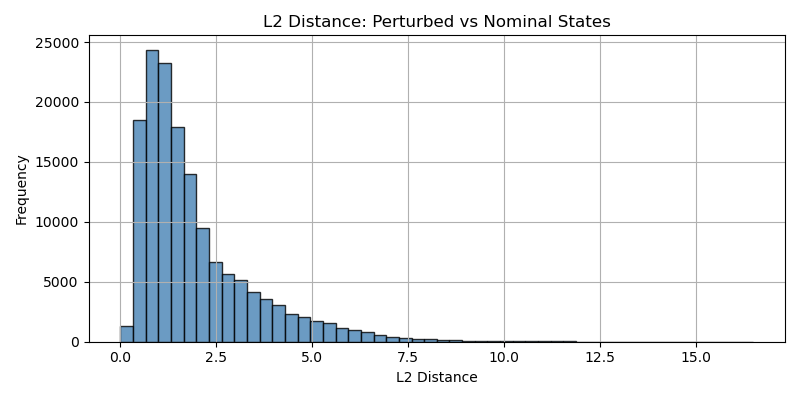
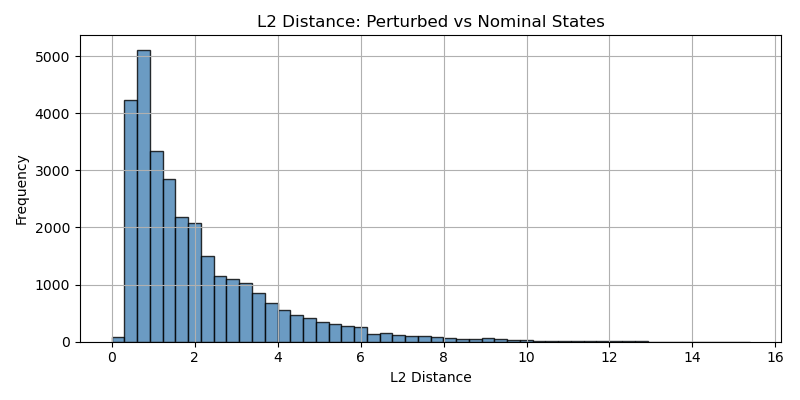
fix velocity drop to 0 after perturbation

diff --git a/iterative_supervised_learning/examples/data_collection_force_perturbation.py b/iterative_supervised_learning/examples/data_collection_force_perturbation.py
@@ -27,51 +27,6 @@ t0 = 0.0
 v_des = [0.15, 0.0, 0.0]
 n_state = 44
 
-def save_ood_val_set_dummy(self, experiment_dir, states, vc_goals, cc_goals, actions, data):
-    if "nominal" not in data.filename.lower():
-        self.ood_database.append(
-            states=states[:1000],
-            vc_goals=vc_goals[:1000],
-            cc_goals=cc_goals[:1000],
-            actions=actions[:1000]
-        )
-
-def save_ood_val_set_l2_distance(self, experiment_dir, states, vc_goals, cc_goals, actions, data, distance_threshold=4.0):
-    if "nominal" in data.filename.lower():
-        return
-
-    # Load nominal trajectory once
-    nominal_file = [f for f in os.listdir(experiment_dir) if "nominal" in f.lower()][0]
-    nominal_path = os.path.join(experiment_dir, nominal_file)
-    nominal_data = np.load(nominal_path)
-
-    # Build nominal state dict by time
-    nominal_states_by_time = {
-        round(t, 4): s for t, s in zip(nominal_data["time"], nominal_data["state"])
-    }
-
-    # Filter and save OOD samples by distance
-    for idx in range(len(states)):
-        t = round(data["time"][idx], 4)
-        s_pert = states[idx]
-
-        if t in nominal_states_by_time:
-            s_nom = nominal_states_by_time[t]
-
-            # Optional: ignore phase percentage (index 0)
-            s_pert_vec = s_pert[1:]
-            s_nom_vec = s_nom[1:]
-            dist = np.linalg.norm(s_pert_vec - s_nom_vec)
-
-            if dist > distance_threshold:
-                self.ood_database.append(
-                    states=[s_pert],
-                    vc_goals=[vc_goals[idx]],
-                    cc_goals=[cc_goals[idx]],
-                    actions=[actions[idx]]
-                )
-
-
 def contact_vec_to_frame_names(contact_vec: np.ndarray) -> List[str]:
     frame_names = ["FL_foot", "FR_foot", "RL_foot", "RR_foot"]
     return [frame_names[i] for i in range(len(frame_names)) if contact_vec[i] == 1]
@@ -124,6 +79,53 @@ class DataCollection():
             with open(config_path, "wb") as f:
                 pickle.dump(self.cfg, f)
         print(f"Dataset saved at iteration {iteration+1}")
+    
+    def save_ood_val_set_dummy(self, experiment_dir, states, vc_goals, cc_goals, actions,file_name):
+        if "nominal" not in file_name.lower():
+            self.ood_database.append(
+                states=states[:1000],
+                vc_goals=vc_goals[:1000],
+                cc_goals=cc_goals[:1000],
+                actions=actions[:1000]
+            )
+
+    def save_ood_val_set_l2_distance(self, experiment_dir, states, vc_goals, cc_goals, actions, times, file_name, distance_threshold=4.0):
+        if "nominal" in file_name.lower():
+            return
+
+        # Load nominal trajectory
+        nominal_file = [f for f in os.listdir(experiment_dir) if "nominal" in f.lower()][0]
+        nominal_path = os.path.join(experiment_dir, nominal_file)
+        nominal_data = np.load(nominal_path)
+
+        # Build time-indexed nominal dictionary
+        nominal_states_by_time = {
+            round(t, 4): s for t, s in zip(nominal_data["time"], nominal_data["state"])
+        }
+
+        num_added = 0
+        for idx in range(len(states)):
+            t = round(times[idx], 4)
+            s_pert = states[idx]
+
+            if t in nominal_states_by_time:
+                s_nom = nominal_states_by_time[t]
+
+                s_pert_vec = s_pert[1:]
+                s_nom_vec = s_nom[1:]
+                dist = np.linalg.norm(s_pert_vec - s_nom_vec)
+
+                if dist > distance_threshold:
+                    self.ood_database.append(
+                        states=[s_pert],
+                        vc_goals=[vc_goals[idx]],
+                        cc_goals=[cc_goals[idx]],
+                        actions=[actions[idx]],
+                    )
+                    num_added += 1
+
+        print(f"Added {num_added} OOD samples from {file_name}")
+
 
     def run(self):        
         experiment_dir = os.path.join(self.data_save_path, "experiment")
@@ -140,15 +142,6 @@ class DataCollection():
             nominal_flag=True
         )
         
-        replanning_points = []
-        gait_period = 0.5
-        num_replanning = int(gait_period * 1000 / replan_freq)
-        start_timestep = t0 * 1000
-        for i in range(num_replanning):
-            next_replanning_point = int(i * replan_freq + start_timestep)
-            replanning_points.append(next_replanning_point)
-        print("Replanning points:", replanning_points)
-
         print("loading nominal traj data from path = ")
         print(record_path_nominal)
         data = np.load(record_path_nominal)
@@ -160,10 +153,32 @@ class DataCollection():
         cc_goals = None
         actions = data["ctrl"]
         contact_vec = data["contact_vec"]
+        
+        # # sample replanning points
+        # replanning_points = []
+        # gait_period = 0.5
+        # num_replanning = int(gait_period * 1000 / replan_freq)
+        # start_timestep = t0 * 1000
+        # for i in range(num_replanning):
+        #     next_replanning_point = int(i * replan_freq + start_timestep)
+        #     replanning_points.append(next_replanning_point)
+        # print("Replanning points:", replanning_points)
+        
+        # sample 20 replanning points evenly across the reference trajectory
+        replanning_points = []
+        gait_period = 0.5
+        num_replanning = 10
+        start_timestep = t0 * 1000
+        # traj_length = len(state)
+        traj_length = 3500
+        replanning_points = np.linspace(0, traj_length - 1, num_replanning, dtype=int).tolist()
+        print(f"Evenly spaced replanning points (total {num_replanning}):", replanning_points)
 
         for i_replanning in replanning_points:
             print(f"Replanning at step {i_replanning}")
             q0 = nominal_q[i_replanning]
+            # fix mpc base ref starts from 0 problem
+            q0[0] = 0
             v0 = nominal_v[i_replanning]
             current_contact_vec = contact_vec[i_replanning]
             ee_in_contact = contact_vec_to_frame_names(current_contact_vec)
@@ -175,13 +190,15 @@ class DataCollection():
 
                 early_termination = False
                 while True:
-                    force_start_offset = np.random.uniform(0.0, 0.05)
-                    force_start_time = current_time + force_start_offset
+                    # force_start_offset = np.random.uniform(0.0, 0.05)
+                    force_start_offset = 0.0
+                    force_start_time = force_start_offset
                     force_duration = np.random.uniform(0.2, 0.4)
 
                     force_direction = np.random.uniform(-1.0, 1.0, size=3)
                     force_direction /= np.linalg.norm(force_direction) + 1e-6
                     magnitude = np.random.uniform(50.0, 70.0)
+                    # magnitude = 0
                     force_vec = np.concatenate([magnitude * force_direction, np.zeros(3)])
 
                     print(f"Random push: start={force_start_time:.2f}s, duration={force_duration:.2f}s, vec={force_vec[:3]}")
@@ -231,8 +248,8 @@ class DataCollection():
                 )
 
                 if "nominal" not in file_name.lower():
-                    save_ood_val_set_dummy(experiment_dir, states, vc_goals, cc_goals, actions, data)
-                    # save_ood_val_set_l2_distance(experiment_dir, states, vc_goals, cc_goals, actions, data, distance_threshold=4.0)
+                    # self.save_ood_val_set_dummy(experiment_dir, states, vc_goals, cc_goals, actions, file_name)
+                    self.save_ood_val_set_l2_distance(experiment_dir, states, vc_goals, cc_goals, actions, times, file_name, distance_threshold=4.0)
 
         self.save_dataset(iteration=0)
         ood_save_path = os.path.join(self.data_save_path, "ood_val_data.npz")

diff --git a/iterative_supervised_learning/examples/plot_policy_tracking.py b/iterative_supervised_learning/examples/plot_policy_tracking.py
@@ -6,15 +6,10 @@ visualize_length = 10000
 
 # Define realized trajectory file paths
 realized_traj_files = [
-    # "/home/atari/workspace/iterative_supervised_learning/examples/data/simulation_data_04_17_2025_12_47_10.npz",
-    # "/home/atari/workspace/iterative_supervised_learning/examples/data/simulation_data_04_17_2025_12_35_51.npz",
-    "/home/atari/workspace/iterative_supervised_learning/examples/data/simulation_data_04_17_2025_12_49_35.npz",
-    
-    # "/home/atari/workspace/iterative_supervised_learning/examples/data/behavior_cloning/trot/Apr_16_2025_15_57_03/dataset/experiment/traj_0_5.npz",
-    # "/home/atari/workspace/iterative_supervised_learning/examples/data/behavior_cloning/trot/Apr_16_2025_15_57_03/dataset/experiment/traj_50_2.npz",
-    # "/home/atari/workspace/iterative_supervised_learning/examples/data/behavior_cloning/trot/Apr_16_2025_15_57_03/dataset/experiment/traj_100_6.npz",
-]
-data_MPC_path = "/home/atari/workspace/iterative_supervised_learning/examples/data/behavior_cloning/trot/Apr_16_2025_13_02_09/dataset/experiment/traj_nominal_04_16_2025_13_02_15.npz"
+    "/home/atari/workspace/iterative_supervised_learning/examples/data/behavior_cloning/trot/Apr_22_2025_13_44_56/dataset/experiment/traj_3578_1.npz",
+    "/home/atari/workspace/iterative_supervised_learning/examples/data/behavior_cloning/trot/Apr_22_2025_13_44_56/dataset/experiment/traj_1894_1.npz",
+    ]
+data_MPC_path = "/home/atari/workspace/iterative_supervised_learning/examples/data/behavior_cloning/trot/Apr_22_2025_13_44_56/dataset/experiment/traj_nominal_04_22_2025_13_45_02.npz"
 
 # realized_traj_files = [
 #     # "/home/atari/workspace/iterative_supervised_learning/examples/data/simulation_data_04_03_2025_11_12_31.npz",
@@ -42,6 +37,8 @@ joint_pos_his_list = [data["q"][:,7:][:visualize_length] for data in realized_da
 joint_vel_his_list = [data["v"][:,6:][:visualize_length] for data in realized_data]
 realized_PD_targets = [data["action"][:visualize_length] for data in realized_data]
 phase_percentage_his_list = [data["state"][:,0][:visualize_length] for data in realized_data]
+base_pos_his_list = [data["q"][:,:3][:visualize_length] for data in realized_data]
+base_vel_his_list = [data["v"][:,:3][:visualize_length] for data in realized_data]
 
 # Load MPC reference data
 data_MPC = np.load(data_MPC_path)
@@ -50,6 +47,8 @@ time_his_MPC = data_MPC["time"][:visualize_length]
 reference_PD_target = data_MPC["action"][:visualize_length, :]
 reference_joint_pos = data_MPC["q"][:visualize_length, 7:]
 reference_joint_vel = data_MPC["v"][:visualize_length, 6:]
+reference_base_pos = data_MPC["q"][:visualize_length, :3]
+reference_base_vel = data_MPC["v"][:visualize_length, :3]
 
 # Load policy-generated actions
 # policy_action_path = "/home/atari/workspace/iterative_supervised_learning/utils/data/action_policy_history.npz"
@@ -57,22 +56,6 @@ reference_joint_vel = data_MPC["v"][:visualize_length, 6:]
 # action_policy_his = policy_data["action_policy_his"][:visualize_length, :]
 
 # Plot functions
-def plot_joint_tracking_multiple(realized_data_list, data_ref, phase_percentage_list, title, ylabel):
-    fig, axes = plt.subplots(4, 3, figsize=(15, 12))
-    for i, ax in enumerate(axes.flat):
-        for idx, data_real in enumerate(realized_data_list):
-            ax.plot(time_his_policies[idx], data_real[:, i], label=f"Realized {idx+1}", color=["blue", "black","green"][idx])
-        ax.plot(time_his_MPC, data_ref[:, i], linestyle="--", label="Reference", color="red")
-        for idx, phase in enumerate(phase_percentage_list):
-            ax.plot(time_his_policies[idx], phase, linestyle="-", label=f'Phase {idx+1}', color="gray")
-        ax.set_xlabel("Time (s)")
-        ax.set_ylabel(ylabel)
-        ax.set_title(f"{title} - {joint_labels[i]}")
-        ax.legend()
-        ax.grid()
-    plt.tight_layout()
-    plt.show()
-
 def plot_joint_tracking_multiple(realized_data_list, data_ref, phase_percentage_list=None, title="Joint Tracking", ylabel="Value"):
     fig, axes = plt.subplots(4, 3, figsize=(15, 12))
     for i, ax in enumerate(axes.flat):
@@ -92,7 +75,44 @@ def plot_joint_tracking_multiple(realized_data_list, data_ref, phase_percentage_
     plt.tight_layout()
     plt.show()
 
+def plot_base_tracking_multiple(realized_data_list, data_ref, time_his_policies, time_his_ref, title="Base Tracking", ylabel="Value", dim_labels=["x", "y", "z"]):
+    fig, axes = plt.subplots(1, 3, figsize=(18, 5))
+    
+    for i, ax in enumerate(axes):
+        for idx, data_real in enumerate(realized_data_list):
+            ax.plot(time_his_policies[idx], data_real[:, i], label=f"Realized {idx+1}", color=["blue", "black", "green"][idx])
+        ax.plot(time_his_ref, data_ref[:, i], linestyle="--", label="Reference", color="red")
+
+        ax.set_xlabel("Time (s)")
+        ax.set_ylabel(ylabel)
+        ax.set_title(f"{title} - {dim_labels[i]}")
+        ax.legend()
+        ax.grid()
+
+    plt.tight_layout()
+    plt.show()
+
+
 # Plot
 plot_joint_tracking_multiple(realized_PD_targets, reference_PD_target, phase_percentage_his_list, "PD Target Tracking", "PD Target")
 plot_joint_tracking_multiple(joint_pos_his_list, reference_joint_pos, None,"Joint Position Tracking", "Joint Position")
 plot_joint_tracking_multiple(joint_vel_his_list, reference_joint_vel, None,"Joint Velocity Tracking", "Joint Velocity")
+
+plot_base_tracking_multiple(
+    base_pos_his_list,
+    reference_base_pos,
+    time_his_policies,
+    time_his_MPC,
+    title="Base Position Tracking",
+    ylabel="Position (m)"
+)
+
+plot_base_tracking_multiple(
+    base_vel_his_list,
+    reference_base_vel,
+    time_his_policies,
+    time_his_MPC,
+    title="Base Velocity Tracking",
+    ylabel="Velocity (m/s)"
+)
+

diff --git a/iterative_supervised_learning/examples/plot_PCA_analysis.py b/iterative_supervised_learning/examples/plot_PCA_analysis.py
@@ -221,7 +221,10 @@ def plot_pca_state_action_with_pc3_overlay(train_state_action, policy_npz_path, 
 # dataset that gives me the best policy
 # data_dir = "/home/atari/workspace/iterative_supervised_learning/examples/data/behavior_cloning/trot/Apr_16_2025_09_42_07/dataset/experiment"
 # data_dir = "/home/atari/workspace/iterative_supervised_learning/examples/data/behavior_cloning/trot/Apr_16_2025_13_02_09/dataset/experiment"
-data_dir = "/home/atari/workspace/iterative_supervised_learning/examples/data/behavior_cloning/trot/Apr_16_2025_15_57_03/dataset/experiment"
+# data_dir = "/home/atari/workspace/iterative_supervised_learning/examples/data/behavior_cloning/trot/Apr_16_2025_15_57_03/dataset/experiment"
+
+data_dir = "/home/atari/workspace/iterative_supervised_learning/examples/data/behavior_cloning/trot/Apr_22_2025_14_22_27/dataset/experiment"
+# data_dir = "/home/atari/workspace/iterative_supervised_learning/examples/data/behavior_cloning/trot/Apr_22_2025_13_56_55/dataset/experiment"
 k_start = 0  # Number of trajectories to visualize
 k_end = None
 # Joint labels for visualization
@@ -292,7 +295,7 @@ combined_state_action = np.vstack(combined_state_action)
 
 # policy data overlay
 # policy_path = "/home/atari/workspace/iterative_supervised_learning/examples/data/simulation_data_04_11_2025_12_48_57.npz"
-policy_path = "/home/atari/workspace/iterative_supervised_learning/examples/data/simulation_data_04_17_2025_12_31_42.npz"
+policy_path = "/home/atari/workspace/iterative_supervised_learning/examples/data/simulation_data_04_17_2025_12_49_35.npz"
 train_data_dict = {
     'position': combined_position,
     'velocity': combined_velocity,

diff --git a/iterative_supervised_learning/examples/test_mpc_rollout.py b/iterative_supervised_learning/examples/test_mpc_rollout.py
@@ -6,8 +6,8 @@ import argparse
 from typing import Tuple, List
 import numpy as np
 from datetime import datetime
-# from iterative_supervised_learning.utils.RolloutMPC_shift_phase_percentage import rollout_mpc_phase_percentage_shift
-from iterative_supervised_learning.utils.RolloutMPC_force_perturbation import rollout_mpc_phase_percentage_shift
+from iterative_supervised_learning.utils.RolloutMPC_shift_phase_percentage import rollout_mpc_phase_percentage_shift
+# from iterative_supervised_learning.utils.RolloutMPC_force_perturbation import rollout_mpc_phase_percentage_shift
 
 if __name__ == "__main__":
     # rollout_mpc
@@ -15,8 +15,8 @@ if __name__ == "__main__":
                                                  sim_time = 10.0,
                                                  current_time = 0.0,
                                                  visualize=True,
-                                                 save_data=False,
+                                                 save_data=True,
                                                  record_video = False,
-                                                 v_des= [0.15,0,0])
+                                                 v_des= [0.15,0.1,0.0])
     print(record_path)
     print(early_termination)

diff --git a/iterative_supervised_learning/examples/plot_perturbed_vs_nominal_distance.py b/iterative_supervised_learning/examples/plot_perturbed_vs_nominal_distance.py
@@ -6,9 +6,8 @@ sys.path.append(os.path.dirname(os.path.abspath(__file__)) + '/../..')
 from iterative_supervised_learning.utils.database import Database
 
 # --- Configuration ---
-dataset_path = "/home/atari/workspace/iterative_supervised_learning/examples/data/behavior_cloning/trot/Apr_16_2025_15_57_03/dataset/database_0.hdf5" 
-# dataset_path = "/home/atari/workspace/iterative_supervised_learning/examples/data/behavior_cloning/trot/Apr_15_2025_14_57_46/dataset/database_0.hdf5"
-# dataset_path = "/home/atari/workspace/iterative_supervised_learning/examples/data/behavior_cloning/trot/Apr_16_2025_13_02_09/dataset/database_0.hdf5"
+# dataset_path = "/home/atari/workspace/iterative_supervised_learning/examples/data/behavior_cloning/trot/Apr_16_2025_15_57_03/dataset/database_0.hdf5" 
+dataset_path = "/home/atari/workspace/iterative_supervised_learning/examples/data/behavior_cloning/trot/Apr_22_2025_14_22_27/dataset/database_0.hdf5"
 use_state_mask = True
 distance_plot_save_path = "l2_distances_hist.png"
 

diff --git a/main.py b/main.py
@@ -175,7 +175,7 @@ if __name__ == "__main__":
     parser.add_argument('--sim_time', type=float, default=50, help='Simulation time.')
     parser.add_argument('--robot_name', type=str, default='go2', help='Name of the robot.')
     parser.add_argument('--record_dir', type=str, default='./data/', help='Directory to save recorded data.')
-    parser.add_argument('--v_des', type=float, nargs=3, default=[0.3, 0.0, 0.0], help='Desired velocity.')
+    parser.add_argument('--v_des', type=float, nargs=3, default=[0.3, 0.1, 0.0], help='Desired velocity.')
     parser.add_argument('--save_data', action='store_true', default=True, help='Flag to save data.')
     parser.add_argument('--interactive', action='store_true', help='Use keyboard to set the velocity goal (zqsd).')
     parser.add_argument('--record_video', action='store_true', help='Record a video of the viewer.')
